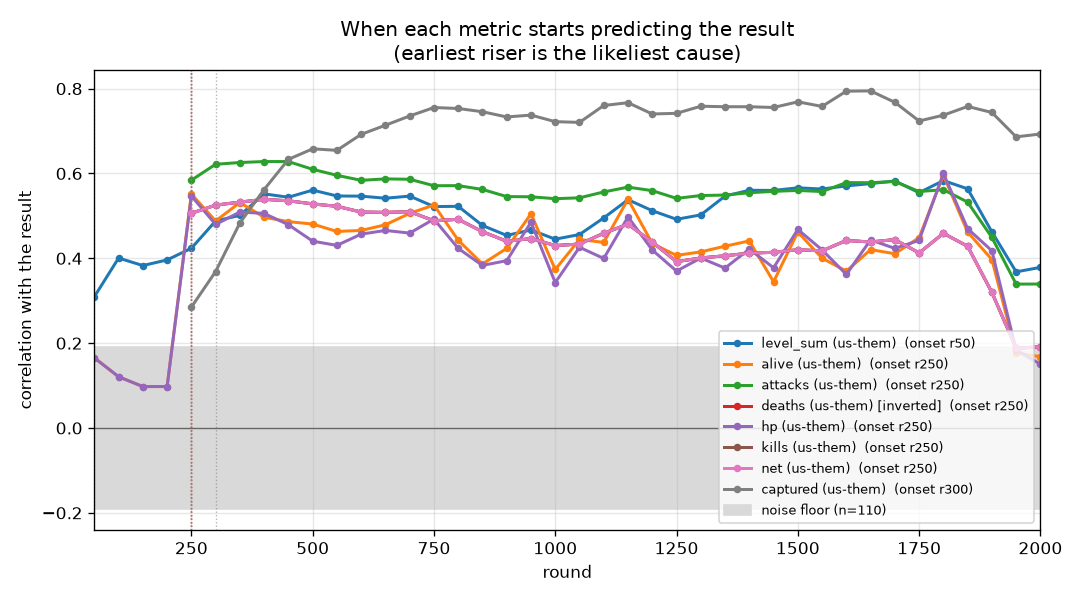
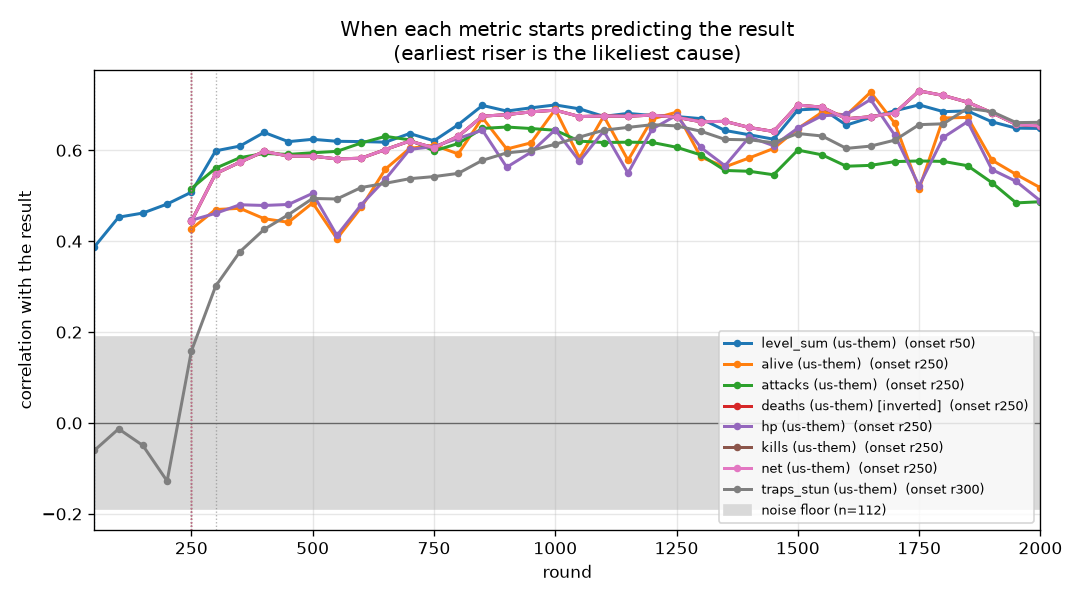
RELOC_V2: later flags keep their spawn spot, stalled carriers go home (Whirlpool regression test, verified to fail without the fix); ONSET regenerated from g_iter2's band
Claude-Session: https://claude.ai/code/session_015upwnfP7RpLyUPDKBdM1Vy

diff --git a/src/bot/Duck.java b/src/bot/Duck.java
@@ -557,11 +557,11 @@ public strictfp class Duck {
             int k = relocOrder[relocK];
             MapLocation sc0 = G.spawnCenters[k];
             int sx = sc0.x, sy = sc0.y, step = relocNe > 3 ? 4 : 3, r = (int) Math.sqrt(C.RELOC_R2);   // <= ~85 points x centres
-            int bx = sx, by = sy, bs = spotFree(sx, sy) ? nearestEnemy2(sx, sy) : Integer.MIN_VALUE, bw = 0;
+            int bx = sx, by = sy, bs = spotFree(sx, sy, k, 36) ? nearestEnemy2(sx, sy) : Integer.MIN_VALUE, bw = 0;
             for (int x = Math.max(1, sx - r); x <= Math.min(G.W - 2, sx + r); x += step)
                 for (int y = Math.max(1, sy - r); y <= Math.min(G.H - 2, sy + r); y += step) {
                     int w = (x - sx) * (x - sx) + (y - sy) * (y - sy);
-                    if (w > C.RELOC_R2 || !spotFree(x, y)) continue;
+                    if (w > C.RELOC_R2 || !spotFree(x, y, k, 64)) continue;
                     int sc = nearestEnemy2(x, y);
                     if (sc > bs || (sc == bs && w < bw)) { bs = sc; bx = x; by = y; bw = w; }
                 }
@@ -582,9 +582,16 @@ public strictfp class Duck {
         return near;
     }
 
-    /** At least 8 tiles from every spot already taken (the engine resets all flags if two are within dist2 36). */
-    static boolean spotFree(int x, int y) {
-        for (int j = 0; j < 3; j++) if (rcx[j] >= 0) { int dx = rcx[j] - x, dy = rcy[j] - y; if (dx * dx + dy * dy < 64) return false; }
+    /** A spot for flag k: at least min2 from every spot already taken (the engine resets all flags if two are within
+     *  dist2 36), and a moved spot also 8+ tiles from the spawn centre of every flag not yet placed, so each later flag
+     *  can still stay where it is (Whirlpool: an earlier flag took a spot beside another's spawn and forced it closer). */
+    static boolean spotFree(int x, int y, int k, int min2) {
+        for (int j = 0; j < 3; j++) {
+            if (rcx[j] >= 0) { int dx = rcx[j] - x, dy = rcy[j] - y; if (dx * dx + dy * dy < min2) return false; }
+            else if (j != k && min2 > 36 && G.spawnCenters[j] != null) {
+                int dx = G.spawnCenters[j].x - x, dy = G.spawnCenters[j].y - y; if (dx * dx + dy * dy < 64) return false;
+            }
+        }
         return true;
     }
 
@@ -608,6 +615,9 @@ public strictfp class Duck {
         if (!there && G.round < C.RELOC_DEADLINE) {
             Nav.moveTo(flagTarget);
             if (G.rc.getLocation().distanceSquaredTo(flagTarget) >= before) relocStall++; else relocStall = 0;
+            if (C.RELOC_V2 && relocStall >= C.RELOC_STALL && !flagTarget.equals(G.spawnCenters[i])) {   // cannot get there:
+                flagTarget = G.spawnCenters[i]; relocStall = 0; return;                                  // go home, never drop short
+            }
             if (relocStall < C.RELOC_STALL) return;
         }
         // drop here if the engine will accept it as a default location

diff --git a/src/g2reloc/Duck.java b/src/g2reloc/Duck.java
@@ -557,11 +557,11 @@ public strictfp class Duck {
             int k = relocOrder[relocK];
             MapLocation sc0 = G.spawnCenters[k];
             int sx = sc0.x, sy = sc0.y, step = relocNe > 3 ? 4 : 3, r = (int) Math.sqrt(C.RELOC_R2);   // <= ~85 points x centres
-            int bx = sx, by = sy, bs = spotFree(sx, sy) ? nearestEnemy2(sx, sy) : Integer.MIN_VALUE, bw = 0;
+            int bx = sx, by = sy, bs = spotFree(sx, sy, k, 36) ? nearestEnemy2(sx, sy) : Integer.MIN_VALUE, bw = 0;
             for (int x = Math.max(1, sx - r); x <= Math.min(G.W - 2, sx + r); x += step)
                 for (int y = Math.max(1, sy - r); y <= Math.min(G.H - 2, sy + r); y += step) {
                     int w = (x - sx) * (x - sx) + (y - sy) * (y - sy);
-                    if (w > C.RELOC_R2 || !spotFree(x, y)) continue;
+                    if (w > C.RELOC_R2 || !spotFree(x, y, k, 64)) continue;
                     int sc = nearestEnemy2(x, y);
                     if (sc > bs || (sc == bs && w < bw)) { bs = sc; bx = x; by = y; bw = w; }
                 }
@@ -582,9 +582,16 @@ public strictfp class Duck {
         return near;
     }
 
-    /** At least 8 tiles from every spot already taken (the engine resets all flags if two are within dist2 36). */
-    static boolean spotFree(int x, int y) {
-        for (int j = 0; j < 3; j++) if (rcx[j] >= 0) { int dx = rcx[j] - x, dy = rcy[j] - y; if (dx * dx + dy * dy < 64) return false; }
+    /** A spot for flag k: at least min2 from every spot already taken (the engine resets all flags if two are within
+     *  dist2 36), and a moved spot also 8+ tiles from the spawn centre of every flag not yet placed, so each later flag
+     *  can still stay where it is (Whirlpool: an earlier flag took a spot beside another's spawn and forced it closer). */
+    static boolean spotFree(int x, int y, int k, int min2) {
+        for (int j = 0; j < 3; j++) {
+            if (rcx[j] >= 0) { int dx = rcx[j] - x, dy = rcy[j] - y; if (dx * dx + dy * dy < min2) return false; }
+            else if (j != k && min2 > 36 && G.spawnCenters[j] != null) {
+                int dx = G.spawnCenters[j].x - x, dy = G.spawnCenters[j].y - y; if (dx * dx + dy * dy < 64) return false;
+            }
+        }
         return true;
     }
 
@@ -608,6 +615,9 @@ public strictfp class Duck {
         if (!there && G.round < C.RELOC_DEADLINE) {
             Nav.moveTo(flagTarget);
             if (G.rc.getLocation().distanceSquaredTo(flagTarget) >= before) relocStall++; else relocStall = 0;
+            if (C.RELOC_V2 && relocStall >= C.RELOC_STALL && !flagTarget.equals(G.spawnCenters[i])) {   // cannot get there:
+                flagTarget = G.spawnCenters[i]; relocStall = 0; return;                                  // go home, never drop short
+            }
             if (relocStall < C.RELOC_STALL) return;
         }
         // drop here if the engine will accept it as a default location

diff --git a/test/bot/AuditTest.java b/test/bot/AuditTest.java
@@ -135,6 +135,11 @@ public class AuditTest {
         G.spawnCenters[0] = new MapLocation(3, 3); G.spawnCenters[1] = new MapLocation(3, 23); G.spawnCenters[2] = new MapLocation(9, 27);
         check(relocOk(new int[]{Sym.FX}, false), "RELOC_V2: DefaultMedium layout: no flag closer than at its spawn");
 
+        // Whirlpool (2026-10-03 diag): an earlier flag's spot beside another flag's spawn forced that flag 25.6 -> 23.0 tiles
+        G.W = 30; G.H = 30; Sym.cands = Sym.FY; Duck.relocK = 0;
+        G.spawnCenters[0] = new MapLocation(3, 23); G.spawnCenters[1] = new MapLocation(27, 26); G.spawnCenters[2] = new MapLocation(11, 27);
+        check(relocOk(new int[]{Sym.FY}, false), "RELOC_V2: Whirlpool layout: no flag closer than at its spawn");
+
         System.out.println("AuditTest: " + (fails == 0 ? "OK" : "FAILED " + fails));
         if (fails > 0) System.exit(1);
     }

diff --git a/progress/ONSET.md b/progress/ONSET.md
@@ -1,6 +1,6 @@
 # Which metric starts predicting the result first
 
-110 games, 82 wins. Noise floor about 0.19; a correlation inside that band is not evidence.
+112 games, 54 wins. Noise floor about 0.19; a correlation inside that band is not evidence.
 
 Every metric is oriented so **higher is better for us**, so a positive correlation always means
 "this being better goes with winning". `~avg` is the running mean over all rounds so far rather than
@@ -12,40 +12,40 @@ See `progress/METRICS.md` for how each quantity is computed.
 
 | onset | anti | metric | peak corr | r100 | r200 | r300 | r400 | r600 | r900 |
 |---|---|---|---|---|---|---|---|---|---|
-| r50 | - | level_sum (us-them) | +0.58 | +0.40 | +0.40 | +0.49 | +0.55 | +0.55 | +0.45 |
-| r50 | - | level_sum (us-them) ~avg | +0.56 | +0.37 | +0.39 | +0.47 | +0.54 | +0.54 | +0.43 |
-| r250 | - | alive (us-them) | +0.60 | +0.12 | +0.10 | +0.49 | +0.50 | +0.47 | +0.42 |
-| r250 | - | alive (us-them) ~avg | +0.55 | +0.17 | +0.16 | +0.53 | +0.55 | +0.52 | +0.44 |
-| r250 | - | attacks (us-them) | +0.63 | . | . | +0.62 | +0.63 | +0.58 | +0.55 |
-| r250 | - | attacks (us-them) ~avg | +0.62 | . | . | +0.61 | +0.62 | +0.59 | +0.55 |
-| r250 | - | deaths (us-them) [inverted] | +0.54 | . | . | +0.53 | +0.54 | +0.51 | +0.44 |
-| r250 | - | deaths (us-them) [inverted] ~avg | +0.53 | . | . | +0.53 | +0.53 | +0.51 | +0.44 |
-| r250 | - | hp (us-them) | +0.60 | +0.12 | +0.10 | +0.48 | +0.51 | +0.46 | +0.39 |
-| r250 | - | hp (us-them) ~avg | +0.55 | +0.17 | +0.16 | +0.53 | +0.55 | +0.49 | +0.43 |
-| r250 | - | kills (us-them) | +0.54 | . | . | +0.53 | +0.54 | +0.51 | +0.44 |
-| r250 | - | kills (us-them) ~avg | +0.53 | . | . | +0.53 | +0.53 | +0.51 | +0.44 |
-| r250 | - | net (us-them) | +0.54 | . | . | +0.53 | +0.54 | +0.51 | +0.44 |
-| r250 | - | net (us-them) ~avg | +0.53 | . | . | +0.53 | +0.53 | +0.51 | +0.44 |
-| r300 | - | captured (us-them) | +0.79 | . | . | +0.37 | +0.56 | +0.69 | +0.73 |
-| r300 | - | captured (us-them) ~avg | +0.76 | . | . | +0.37 | +0.53 | +0.62 | +0.69 |
-| r300 | - | carrying (us-them) | +0.54 | -0.08 | . | +0.49 | +0.44 | +0.54 | +0.42 |
-| r300 | - | pickups (us-them) | +0.50 | -0.01 | -0.01 | +0.31 | +0.42 | +0.46 | +0.43 |
-| r300 | - | traps_built (us-them) | +0.59 | -0.13 | -0.20 | +0.30 | +0.47 | +0.52 | +0.55 |
-| r300 | - | traps_stun (us-them) | +0.64 | -0.03 | -0.04 | +0.39 | +0.54 | +0.58 | +0.60 |
-| r350 | - | moves (us-them) | +0.47 | +0.22 | +0.08 | +0.25 | +0.37 | +0.39 | +0.40 |
-| r350 | - | traps_stun (us-them) ~avg | +0.62 | -0.05 | -0.04 | +0.23 | +0.39 | +0.48 | +0.56 |
-| r400 | - | carrying (us-them) ~avg | +0.40 | -0.06 | -0.04 | +0.16 | +0.32 | +0.40 | +0.37 |
-| r400 | - | pickups (us-them) ~avg | +0.47 | -0.01 | -0.01 | +0.15 | +0.31 | +0.37 | +0.36 |
-| r400 | - | traps_hit (us-them) | +0.46 | . | . | +0.14 | +0.32 | +0.43 | +0.45 |
-| r450 | - | traps_built (us-them) ~avg | +0.54 | -0.14 | -0.17 | +0.07 | +0.26 | +0.39 | +0.49 |
-| r500 | - | moves (us-them) ~avg | +0.45 | +0.23 | +0.16 | +0.19 | +0.29 | +0.33 | +0.35 |
-| r500 | - | traps_hit (us-them) ~avg | +0.41 | . | . | +0.12 | +0.24 | +0.37 | +0.40 |
-| - | r1250 | heals (us-them) | -0.43 | . | . | -0.06 | -0.14 | -0.13 | -0.18 |
-| - | r1250 | heals (us-them) ~avg | -0.41 | . | . | -0.07 | -0.13 | -0.13 | -0.20 |
-| - | r250 | traps_expl (us-them) | -0.38 | -0.20 | -0.29 | -0.32 | -0.29 | -0.33 | -0.33 |
-| - | r400 | traps_expl (us-them) ~avg | -0.43 | -0.19 | -0.24 | -0.30 | -0.30 | -0.33 | -0.37 |
-| - | - | traps_water (us-them) | -0.22 | -0.07 | -0.04 | -0.06 | -0.06 | -0.08 | -0.04 |
-| - | - | traps_water (us-them) ~avg | -0.21 | -0.09 | -0.07 | -0.07 | -0.07 | -0.09 | -0.05 |
+| r50 | - | level_sum (us-them) | +0.70 | +0.45 | +0.48 | +0.60 | +0.64 | +0.62 | +0.69 |
+| r50 | - | level_sum (us-them) ~avg | +0.75 | +0.43 | +0.46 | +0.56 | +0.66 | +0.64 | +0.69 |
+| r250 | - | alive (us-them) | +0.73 | . | . | +0.47 | +0.45 | +0.47 | +0.60 |
+| r250 | - | alive (us-them) ~avg | +0.73 | . | . | +0.52 | +0.59 | +0.58 | +0.68 |
+| r250 | - | attacks (us-them) | +0.65 | . | . | +0.56 | +0.59 | +0.62 | +0.65 |
+| r250 | - | attacks (us-them) ~avg | +0.62 | . | . | +0.55 | +0.58 | +0.60 | +0.62 |
+| r250 | - | deaths (us-them) [inverted] | +0.73 | . | . | +0.55 | +0.60 | +0.58 | +0.68 |
+| r250 | - | deaths (us-them) [inverted] ~avg | +0.70 | . | . | +0.53 | +0.59 | +0.59 | +0.65 |
+| r250 | - | hp (us-them) | +0.71 | . | . | +0.46 | +0.48 | +0.48 | +0.56 |
+| r250 | - | hp (us-them) ~avg | +0.67 | . | . | +0.53 | +0.59 | +0.60 | +0.67 |
+| r250 | - | kills (us-them) | +0.73 | . | . | +0.55 | +0.60 | +0.58 | +0.68 |
+| r250 | - | kills (us-them) ~avg | +0.70 | . | . | +0.53 | +0.59 | +0.59 | +0.65 |
+| r250 | - | net (us-them) | +0.73 | . | . | +0.55 | +0.60 | +0.58 | +0.68 |
+| r250 | - | net (us-them) ~avg | +0.70 | . | . | +0.53 | +0.59 | +0.59 | +0.65 |
+| r300 | - | traps_stun (us-them) | +0.69 | -0.01 | -0.13 | +0.30 | +0.43 | +0.52 | +0.59 |
+| r350 | - | traps_built (us-them) | +0.69 | +0.01 | -0.13 | +0.24 | +0.39 | +0.50 | +0.58 |
+| r400 | - | captured (us-them) | +0.76 | . | . | +0.14 | +0.40 | +0.63 | +0.60 |
+| r400 | - | carrying (us-them) | +0.50 | -0.01 | . | +0.31 | +0.47 | +0.29 | +0.32 |
+| r450 | - | captured (us-them) ~avg | +0.62 | . | . | +0.11 | +0.27 | +0.46 | +0.51 |
+| r450 | - | carrying (us-them) ~avg | +0.45 | -0.03 | +0.03 | +0.12 | +0.28 | +0.42 | +0.42 |
+| r450 | - | pickups (us-them) | +0.41 | -0.02 | -0.02 | +0.07 | +0.29 | +0.28 | +0.23 |
+| r450 | - | traps_hit (us-them) | +0.68 | . | . | +0.24 | +0.28 | +0.45 | +0.56 |
+| r450 | - | traps_stun (us-them) ~avg | +0.65 | -0.04 | -0.08 | +0.14 | +0.27 | +0.40 | +0.46 |
+| r500 | - | moves (us-them) | +0.66 | -0.25 | -0.30 | -0.08 | +0.15 | +0.39 | +0.59 |
+| r500 | - | traps_hit (us-them) ~avg | +0.62 | . | . | +0.22 | +0.27 | +0.37 | +0.45 |
+| r550 | - | traps_built (us-them) ~avg | +0.64 | -0.02 | -0.07 | +0.07 | +0.20 | +0.35 | +0.44 |
+| r750 | - | moves (us-them) ~avg | +0.57 | -0.24 | -0.29 | -0.22 | -0.11 | +0.16 | +0.37 |
+| r1050 | - | heals (us-them) | +0.46 | . | . | -0.09 | -0.08 | -0.02 | +0.18 |
+| r1250 | - | heals (us-them) ~avg | +0.45 | . | . | -0.09 | -0.07 | -0.02 | +0.12 |
+| r1400 | - | pickups (us-them) ~avg | +0.34 | -0.02 | -0.02 | +0.03 | +0.15 | +0.23 | +0.20 |
+| - | r250 | traps_expl (us-them) | -0.32 | +0.02 | -0.11 | -0.28 | -0.22 | -0.20 | -0.10 |
+| - | - | traps_expl (us-them) ~avg | -0.23 | -0.00 | -0.04 | -0.15 | -0.19 | -0.23 | -0.13 |
+| - | r650 | traps_water (us-them) | -0.32 | +0.25 | -0.01 | -0.26 | -0.26 | -0.30 | -0.31 |
+| - | r650 | traps_water (us-them) ~avg | -0.30 | +0.24 | +0.06 | -0.22 | -0.24 | -0.27 | -0.29 |
 
 **Reading it.** Earliest onset is the first place to look: temporal precedence is the one causal hint a
 correlation can honestly give. Late-onset metrics are usually the scoreboard rather than the cause -- by then
